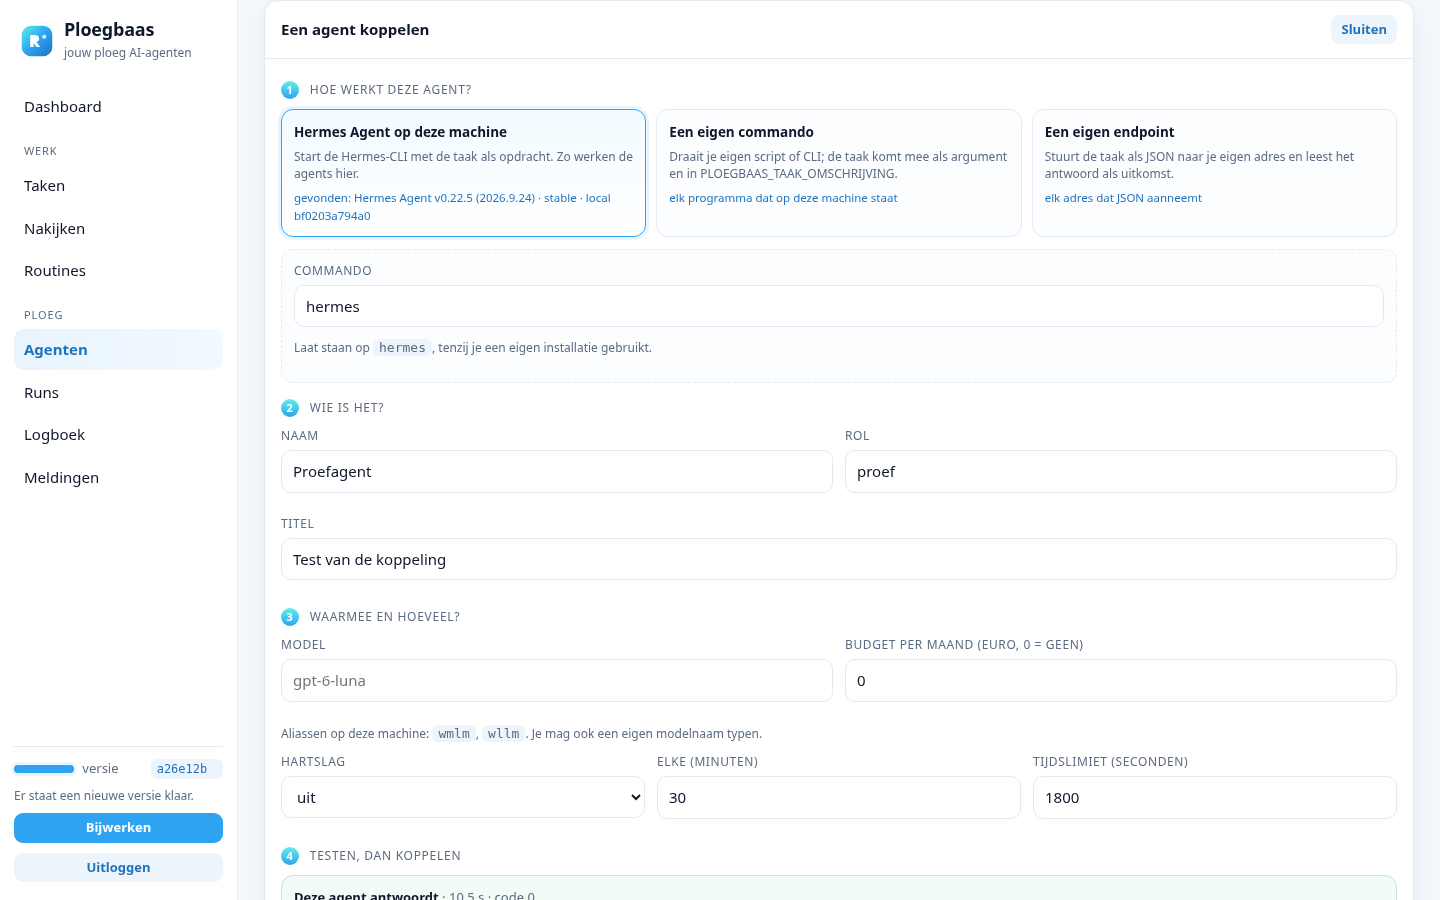
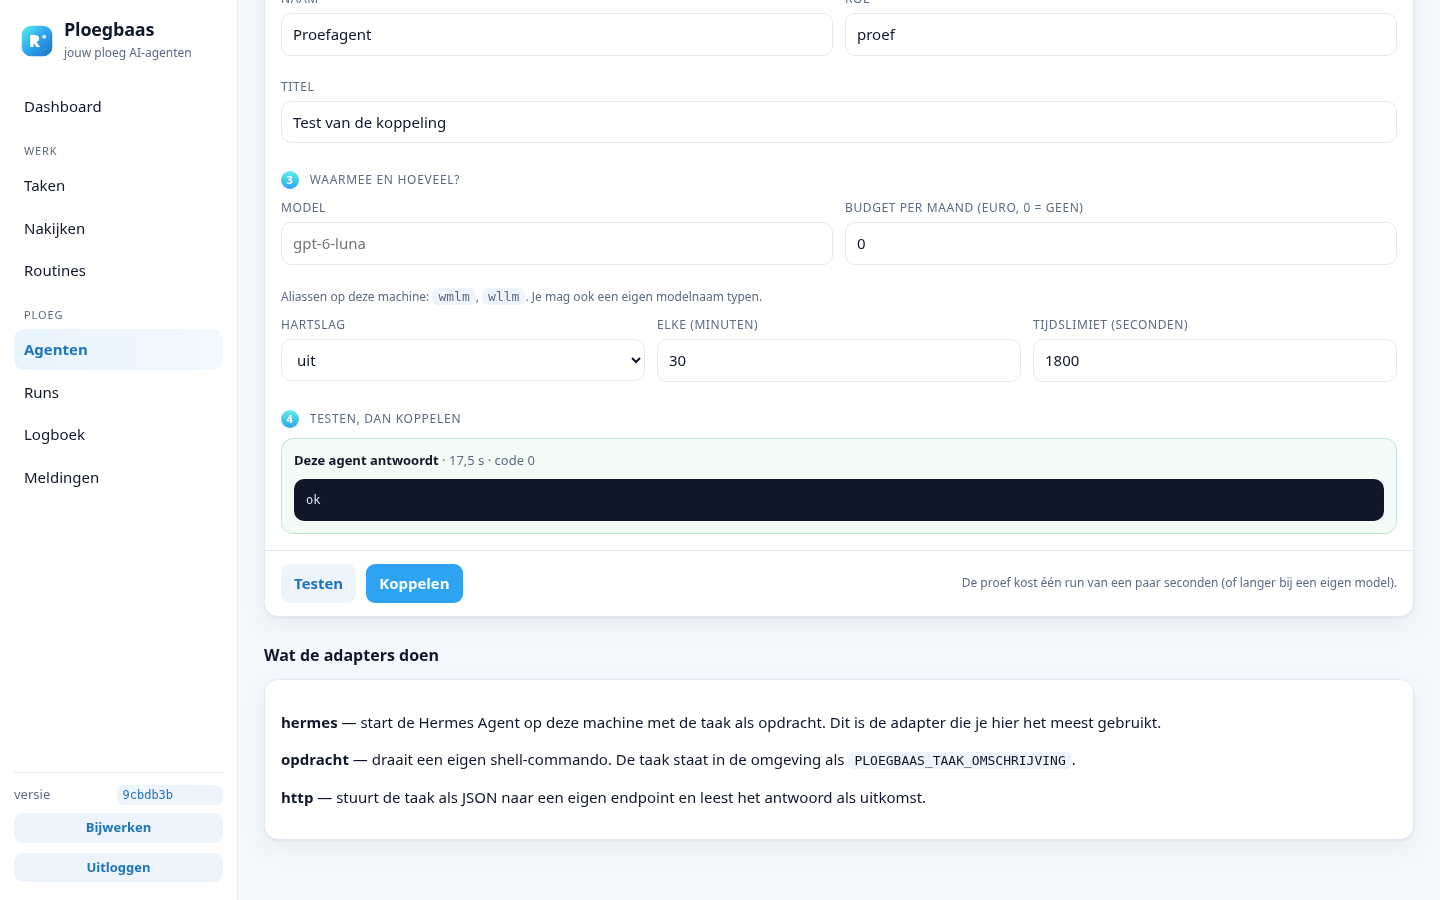
README over het koppelen van een agent, schermafbeeldingen opnieuw

diff --git a/README.md b/README.md
@@ -57,6 +57,8 @@ paperclipai/paperclip) — er is **geen regel code uit dat project overgenomen**
 | **Nakijken** — werk waar een agent "klaar" van zegt. | **Inloggen** — één wachtwoord, ondertekende sessiecookie. |
 | ![Bijwerken](docs/screenshots/bijwerken.png) | |
 | **Bijwerken** — de versie die draait, de log van de laatste bijwerking, en één knop om bij te werken of terug te zetten. | |
+| ![Een agent koppelen](docs/screenshots/agenten-koppelen.png) | |
+| **Een agent koppelen** — vier stappen, met een echte proef voordat je hem aanneemt. | |
 
 </details>
 
@@ -77,6 +79,36 @@ paperclipai/paperclip) — er is **geen regel code uit dat project overgenomen**
 Daarnaast: **routines** (terugkerend werk dat zelf taken aanmaakt), **budgetten**
 (een agent wordt automatisch gepauzeerd als zijn maandbudget op is), en een **live
 kanaal** zodat de pagina zichzelf bijwerkt terwijl een agent bezig is.
+
+## Een agent koppelen
+
+Op de pagina **Agenten** staat één knop: *Agent koppelen*. Daarna gaat het in vier
+stappen, zonder dat je hoeft te weten wat een "adapter" is:
+
+1. **Hoe werkt deze agent?** Drie kaarten — *Hermes Agent op deze machine*, *Een eigen
+   commando*, *Een eigen endpoint*. Ploegbaas zoekt zelf uit wat er is en zet dat onder de
+   kaart: welke Hermes-versie er gevonden is, en of je eigen model antwoordt (op
+   `127.0.0.1:11434` of een alias uit `~/.hermes/config.yaml`).
+2. **Wie is het?** Naam, rol en titel.
+3. **Waarmee en hoeveel?** Model (met de aliassen van deze machine als keuzelijst, je mag
+   ook zelf een naam typen), maandbudget, hartslag en tijdslimiet.
+4. **Testen, dan koppelen.** De knop **Testen** laat de agent één echte opdracht uitvoeren —
+   *"Antwoord met precies één woord: ok"* — en toont het oordeel met de duur en de uitvoer:
+
+   > **Deze agent antwoordt** · 8,5 s · code 0
+   > ```
+   > ok
+   > ```
+
+   Klopt het niet, dan zie je de fout en de uitvoer van de agent. Pas daarna klik je op
+   **Koppelen**; zonder geslaagde proef vraagt Ploegbaas eerst of je het zeker weet.
+
+De proef draait echt: bij de `hermes`-adapter start hij dezelfde CLI met dezelfde
+argumenten als een gewone run, bij `opdracht` je eigen commando, en bij `http` een
+`POST {proef:true}` naar je endpoint. Er komt geen taak of run in je lijst van te staan.
+
+API: `GET /api/agenten/ontdek` (wat deze machine kan) en `POST /api/agenten/proef`
+(`{adapter, model, adapter_config}` → `{ok, duur_ms, code, uitvoer}`).
 
 ## Bijwerken vanaf het dashboard
 
@@ -250,6 +282,7 @@ Eerlijke functielijst. **ja** = werkt hier · **deels** = aanwezig met een beper
 | Taken met status, prioriteit, labels en ouder-taak | ja | *nieuw · bezig · nakijken · klaar · geblokkeerd* |
 | Overleg per taak (thread) met de agent | ja | Een bericht van jou zet de taak terug op *nieuw* |
 | Agenten met rol, titel en adapter | ja | `hermes`, `opdracht`, `http` |
+| Een agent koppelen met een invulformulier en een proef | ja | Vier stappen, adapterkeuze als kaarten; de test laat de agent echt één opdracht uitvoeren en toont duur, code en uitvoer |
 | Hartslag: agent pakt zelf toegewezen werk | ja | Elke 15 seconden; één run per agent tegelijk |
 | Runs met volledige log en live bijwerken | ja | Logbestand per run plus een live kanaal (SSE) in de pagina |
 | Meldingen meteen doorgeven aan een webhook | ja | JSON per gebeurtenis, optioneel ondertekend (HMAC-SHA256); de pagina Meldingen toont wat er verstuurd is |

diff --git a/docs/README.md b/docs/README.md
@@ -55,6 +55,8 @@ paperclipai/paperclip) — er is **geen regel code uit dat project overgenomen**
 | **Meldingen** — het meldkanaal en wat er verstuurd is. | **Logboek** — wie wat startte, wat misging en wie wat goedkeurde. |
 | ![Nakijken](docs/screenshots/nakijken.png) | ![Inloggen](docs/screenshots/inloggen.png) |
 | **Nakijken** — werk waar een agent "klaar" van zegt. | **Inloggen** — één wachtwoord, ondertekende sessiecookie. |
+| ![Bijwerken](docs/screenshots/bijwerken.png) | |
+| **Bijwerken** — de versie die draait, de log van de laatste bijwerking, en één knop om bij te werken of terug te zetten. | |
 
 </details>
 
